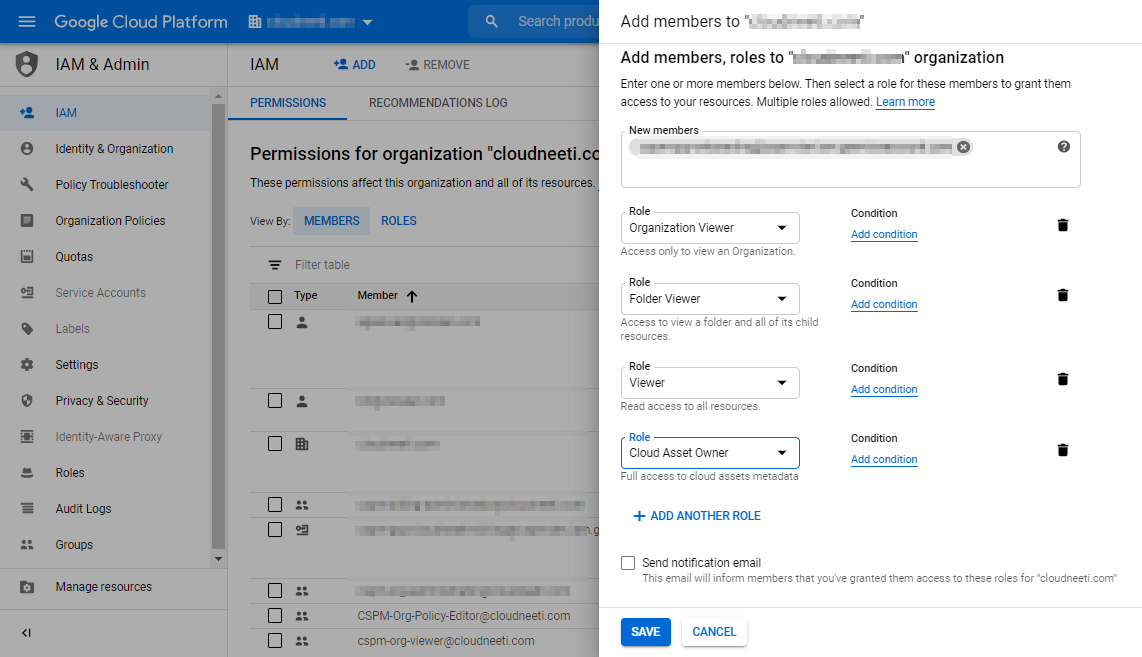
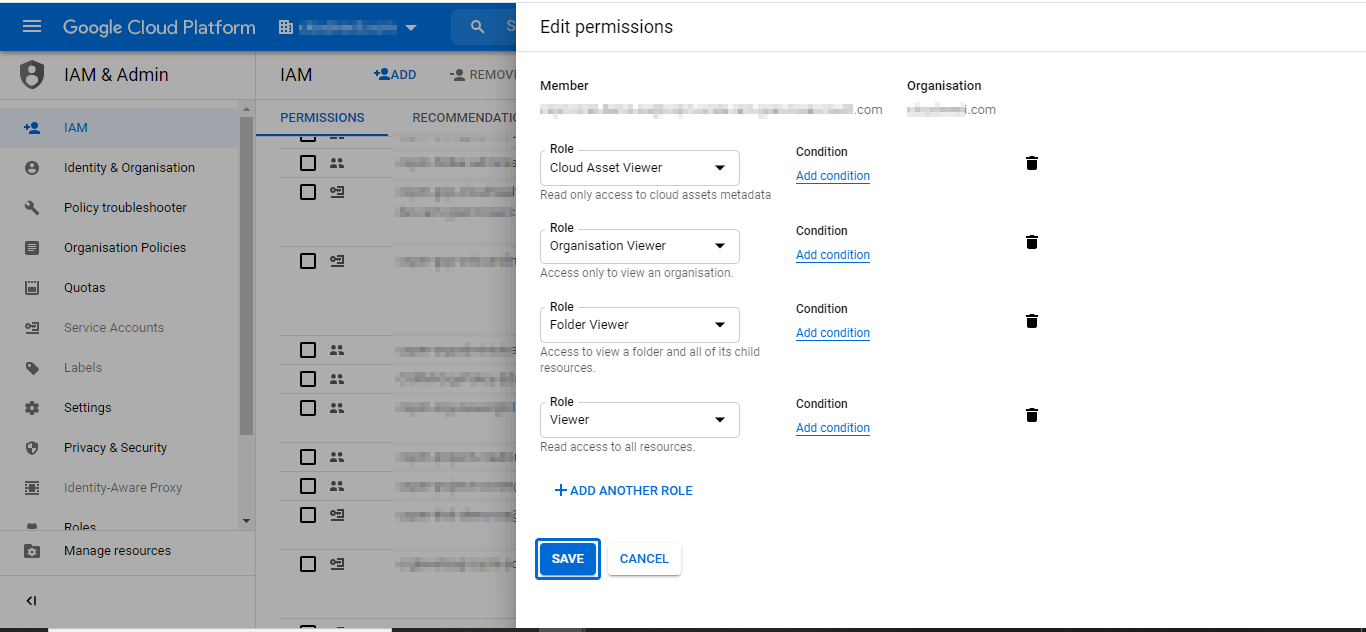
21649 GCP onboarding image updates for role assignment (#626)
* Task 20856 Azure account prerequisite - custom role

* Task 20856 Azure account prerequisite - custom role

* Task 20856 Azure account prerequisite - custom role (#603)

* Updated custom role for all occurances for website contributor and storage

* Task 20856 Azure account prerequisite - custom role (#604)

* Task 20856 Azure account prerequisite - custom role

* Updated custom role for all occurances for website contributor and storage

* Fixed policy list links on ASC policy config page

* Added custom role creation steps using json

* ASC policies config steps updated to have context of onboarding than quick wins

* ASC policies config steps updated to have context of onboarding than quick wins (#607)

* Fixed step link

* Feedback for custom role creation using json file

* Corrected details for Risk impact and likelihood

* Feedback for custom role creation using json file (#610)

* Feedback for custom role creation using json file

* Corrected details for Risk impact and likelihood

* Task 21191, 21517, 21190 Updated docs for Asset, AWS onboarding, Utilization

* Task 21518 Updated release notes

* Task 21518 Updated release notes with screenshots

* Task 21518 Updated CSBP stats

* Task 21649 Updated benchmark stats for GCP

* GCP policy file corrected

* Task 21649 Updats to Asset dashboard and release notes

* Task 21659 remove base64 conversion steps

* GCP benchmark titles replaced with long names

* Task 21649 Updats to Asset dashboard and release notes
[…]

diff --git a/docs/releaseNotes/2020.md b/docs/releaseNotes/2020.md
@@ -139,13 +139,14 @@ September 2020 - v3.03.0
     </details>
 
     -   **Updated Audit and Remediation steps for 42 Azure policies from below categories**
+
         -   Azure - Business continuity and DR
         -   Azure - Compute (PaaS and Serverless)
         -   Azure - Data in Transit
         -   Azure - Logging and Auditing
         -   Azure - Storage and Databases
 
-    -   **Updated Audit and Remediation steps for 213 AWS policies from below categories**
+    -   **Updated Audit and Remediation steps for 213 AWS from below categories**
         -   AWS - Identity and Access Management
         -   AWS - Data In Transit Encryption
         -   AWS - Compute

diff --git a/docs/onboardingGuide/gcpProject.md b/docs/onboardingGuide/gcpProject.md
@@ -87,14 +87,14 @@ Follow below steps to create and assign roles to the service account.
 
 7.  Click on **ADD ANOTHER ROLE** to add Cloud Asset Viewer role
 
-    ![GCP Project](.././images/gcp/gcp_img_8.png#thumbnail)
+    ![GCP Project](.././images/gcp/gcp_img_7a.png#thumbnail)
 
 8.  Click on **CONTINUE** to save the role selections
 
-    ![GCP Project](.././images/gcp/gcp_img_8.png#thumbnail)
-
 9.  Click on **DONE** on Grant user access to this service account to finish the
     service account creation.
+
+    ![GCP Project](.././images/gcp/gcp_img_8.png#thumbnail)
 
 10.  Click on the service account created during the previous step and create a
     Keys.
